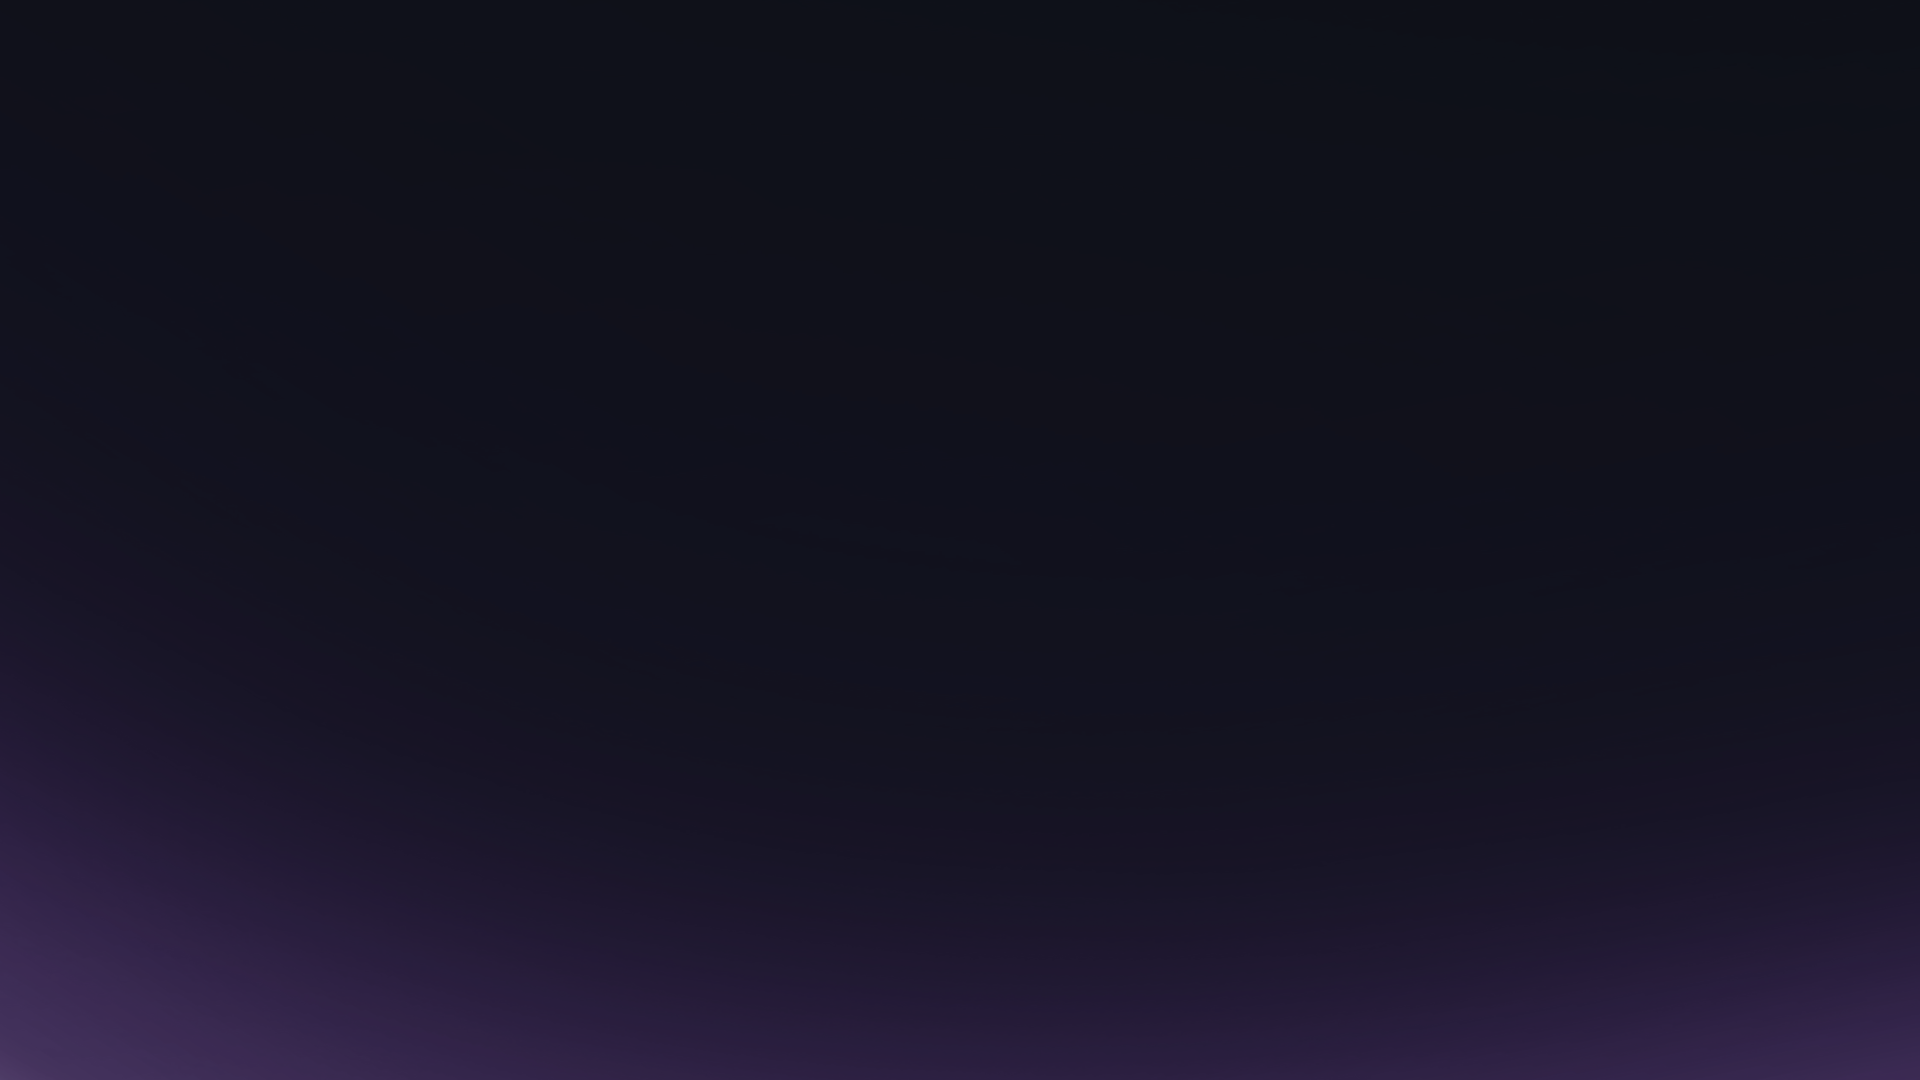
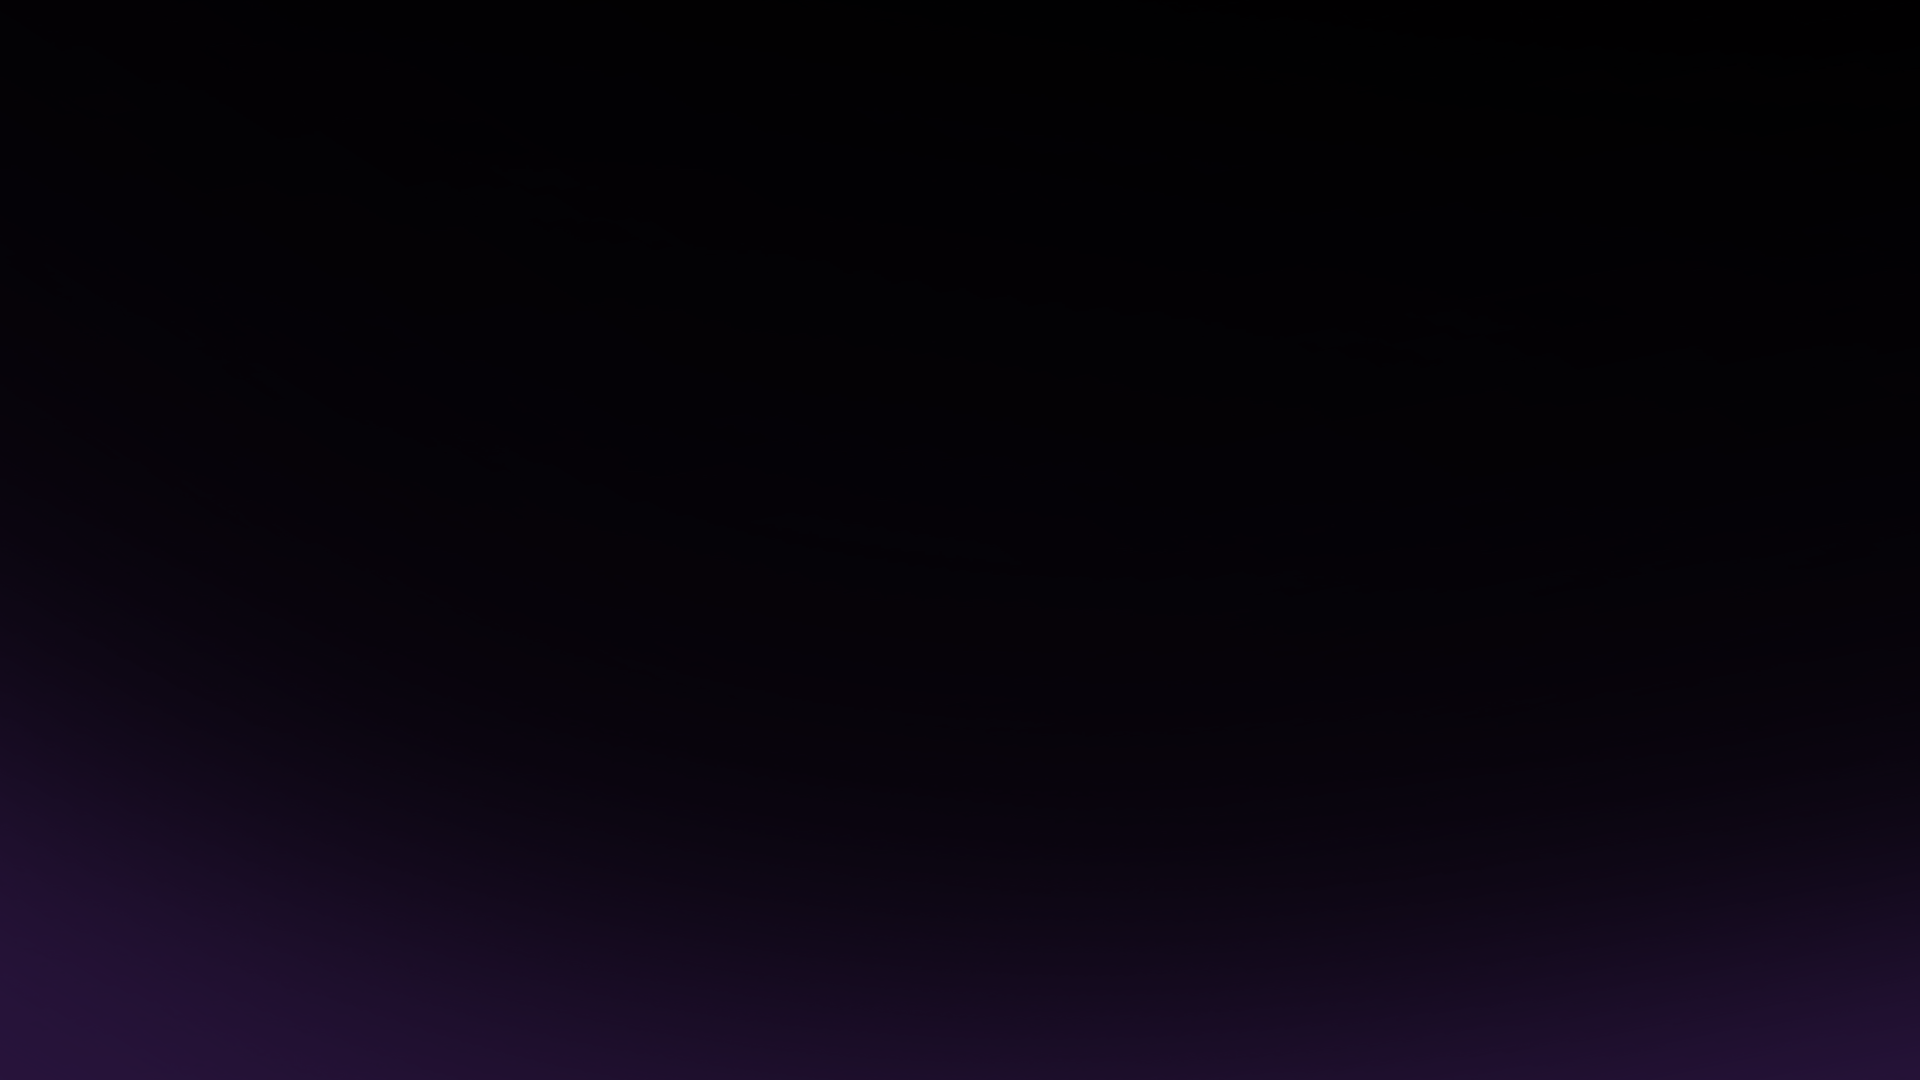
Light/Dark mode functionality added

Changed region(s): [[0.0, 0.7944, 0.3125, 1.0], [0.8125, 0.9472, 1.0, 1.0]]

diff --git a/boxer.dev/style.css b/boxer.dev/style.css
@@ -3,12 +3,33 @@
     padding: 0;
     box-sizing: border-box;
     font-family: 'Segoe UI', Tahoma, Geneva, Verdana, sans-serif;
-    color: white;
+    color: var(--text-color);
 }
 
+:root {
+    --bg-img: url("img/boxer-bg-light.png");
+    --text-color: black;
+    --text-box: linear-gradient(lightgrey, lightgrey) padding-box,
+        linear-gradient(white, #9ef4ff) border-box;
+    --button-color: #9ef4ff;
+    --button-box-shadow: #6399a0 0 2px 4px, #6399a0 0 7px 13px -3px, #8edbe5 0 -3px 0 inset;
+    --button-box-shadow-active: #5e9299 0 3px 7px inset;
+    --button-box-shadow-focus: #5e9299 0 0 0 1.5px inset, #6399a0 0 2px 4px, #6399a0 0 7px 13px -3px, #5e9299 0 -3px 0 inset
+}
+
+.dark-mode {
+    --bg-img: url("img/boxer-bg-dark.png");
+    --text-color: white;
+    --text-box: linear-gradient(#0d1017, #0d1017) padding-box,
+        linear-gradient(#0d1017, rebeccapurple) border-box;
+    --button-color: #FCFCFD;
+    --button-box-shadow: rgba(45, 35, 66, 0.4) 0 2px 4px, rgba(45, 35, 66, 0.3) 0 7px 13px -3px, #D6D6E7 0 -3px 0 inset;
+    --button-box-shadow-active: #D6D6E7 0 3px 7px inset;
+    --button-box-shadow-focus: #D6D6E7 0 0 0 1.5px inset, rgba(45, 35, 66, 0.4) 0 2px 4px, rgba(45, 35, 66, 0.3) 0 7px 13px -3px, #D6D6E7 0 -3px 0 inset
+}
 
 body {
-    background-image: url("img/boxer-bg-dark.png");
+    background-image: var(--bg-img);
     overflow: hidden;
 }
 
@@ -29,7 +50,53 @@ body {
     width: 50px;
 }
 
+/* Containter for our Light/Dark mode switch */
+.mode-switch {
+    position: relative;
+    display: inline-block;
+    width: 50px;
+    height: 24px;
+}
 
+/* Will hide default checkbox */
+.mode-switch input {
+    opacity: 0;
+    width: 0;
+    height: 0;
+}
+
+/* The track */
+.slider {
+    position: absolute;
+    cursor: pointer;
+    background-color: #ccc;
+    border-radius: 24px;
+    width: 100%;
+    height: 100%;
+    transition: background-color 0.3s;
+}
+
+/* Rounded slider */
+.slider::before {
+    content: "";
+    position: absolute;
+    height: 20px;
+    width: 20px;
+    left: 4px;
+    bottom: 2px;
+    background-color: white;
+    border-radius: 50%;
+    transition: transform 0.3s;
+}
+
+/* Toggled state */
+.mode-switch input:checked+.slider {
+    background-color: rebeccapurple;
+}
+
+.mode-switch input:checked+.slider::before {
+    transform: translateX(22px);
+}
 
 .container {
     height: 90vh;
@@ -53,10 +120,13 @@ body {
     width: 60%;
     display: flex;
     align-items: center;
-    border: 1px solid white;
+    background: var(--text-box);
+    border: 1px solid transparent;
+    border-radius: 10px;
     padding: 10px;
     border-radius: 10px;
 }
+
 
 .repoUrl {
     border: hidden;
@@ -114,7 +184,7 @@ a::before {
     position: absolute;
     width: 100%;
     height: 1px;
-    background-color: white;
+    background-color: var(--text-color);
     bottom: 0;
     left: 0;
     transform-origin: right;
@@ -142,8 +212,8 @@ a:hover::before {
 .dockerText {
     width: 550px;
     height: 400px;
-    background: transparent;
-    border: 1px solid white;
+    background: var(--text-box);
+    border: 1px solid transparent;
     border-radius: 10px;
     padding: 10px;
     font-size: 15px;
@@ -151,7 +221,6 @@ a:hover::before {
 
 textarea.dockerText:focus {
     outline: none;
-    border: 2px solid white;
 }
 
 .textBox {
@@ -176,12 +245,12 @@ textarea.dockerText:focus {
 .button {
     align-items: center;
     align-self: center;
-    background-color: #FCFCFD;
+    background-color: var(--button-color);
     border-radius: 4px;
     border-width: 0;
-    box-shadow: rgba(45, 35, 66, 0.4) 0 2px 4px, rgba(45, 35, 66, 0.3) 0 7px 13px -3px, #D6D6E7 0 -3px 0 inset;
+    box-shadow: var(--button-box-shadow);
     box-sizing: border-box;
-    color: #36395A;
+    color: black;
     display: inline-flex;
     height: 48px;
     justify-content: center;
@@ -197,7 +266,7 @@ textarea.dockerText:focus {
 }
 
 .button:focus {
-    box-shadow: #D6D6E7 0 0 0 1.5px inset, rgba(45, 35, 66, 0.4) 0 2px 4px, rgba(45, 35, 66, 0.3) 0 7px 13px -3px, #D6D6E7 0 -3px 0 inset;
+    box-shadow: var(--button-box-shadow-focus);
 }
 
 .button:hover {
@@ -206,7 +275,7 @@ textarea.dockerText:focus {
 }
 
 .button:active {
-    box-shadow: #D6D6E7 0 3px 7px inset;
+    box-shadow: var(--button-box-shadow-active);
     transform: translateY(2px);
 }
 
@@ -225,4 +294,5 @@ textarea.dockerText:focus {
     .code textarea {
         height: 50vh;
     }
+
 }

diff --git a/boxer.dev/python.html b/boxer.dev/python.html
@@ -19,6 +19,13 @@
             Deploy a Python App Now
         </h1>
         <div>
+            <div>
+                <p>Light/Dark</p>
+                <label class="mode-switch">
+                    <input id="view-mode" type="checkbox" />
+                    <span class="slider"></span>
+                </label>
+            </div>
             <iframe
                 src="https://ghbtns.com/github-btn.html?user=dphilla&amp;repo=boxer&amp;type=star&amp;count=true&amp;size=large"
                 frameborder="0" scrolling="0" width="125" height="30" title="GitHub"></iframe>
@@ -27,7 +34,7 @@
     <div class="container">
         <div class="repo">
             <div class="repoWrapper">
-                <img src="img/github-dark.png" height="20">
+                <img src="img/github-light.png" height="20" id="github-icon">
                 <input type="text" id="repoUrl" class="repoUrl" placeholder="Enter GitHub repo URL">
                 <button id="fetchFiles" class="button">Fetch</button>
             </div>

diff --git a/boxer.dev/main.js b/boxer.dev/main.js
@@ -10,6 +10,16 @@ document.getElementById('repoUrl').addEventListener('keydown', async function (e
     }
 });
 
+document.getElementById('view-mode').addEventListener("click", () => {
+    document.body.classList.toggle('dark-mode');
+    if (document.getElementById('view-mode').checked) {
+        document.getElementById('github-icon').src = "img/github-dark.png";
+    } else {
+        document.getElementById('github-icon').src = "img/github-light.png";
+
+    }
+});
+
 // document.getElementById('deployButton').onclick = function () {
 //     window.location.href = 'https://boxer.dev';
 // };
@@ -62,3 +72,4 @@ const dockerfileLang = (language) => {
 
     }
 };
+
